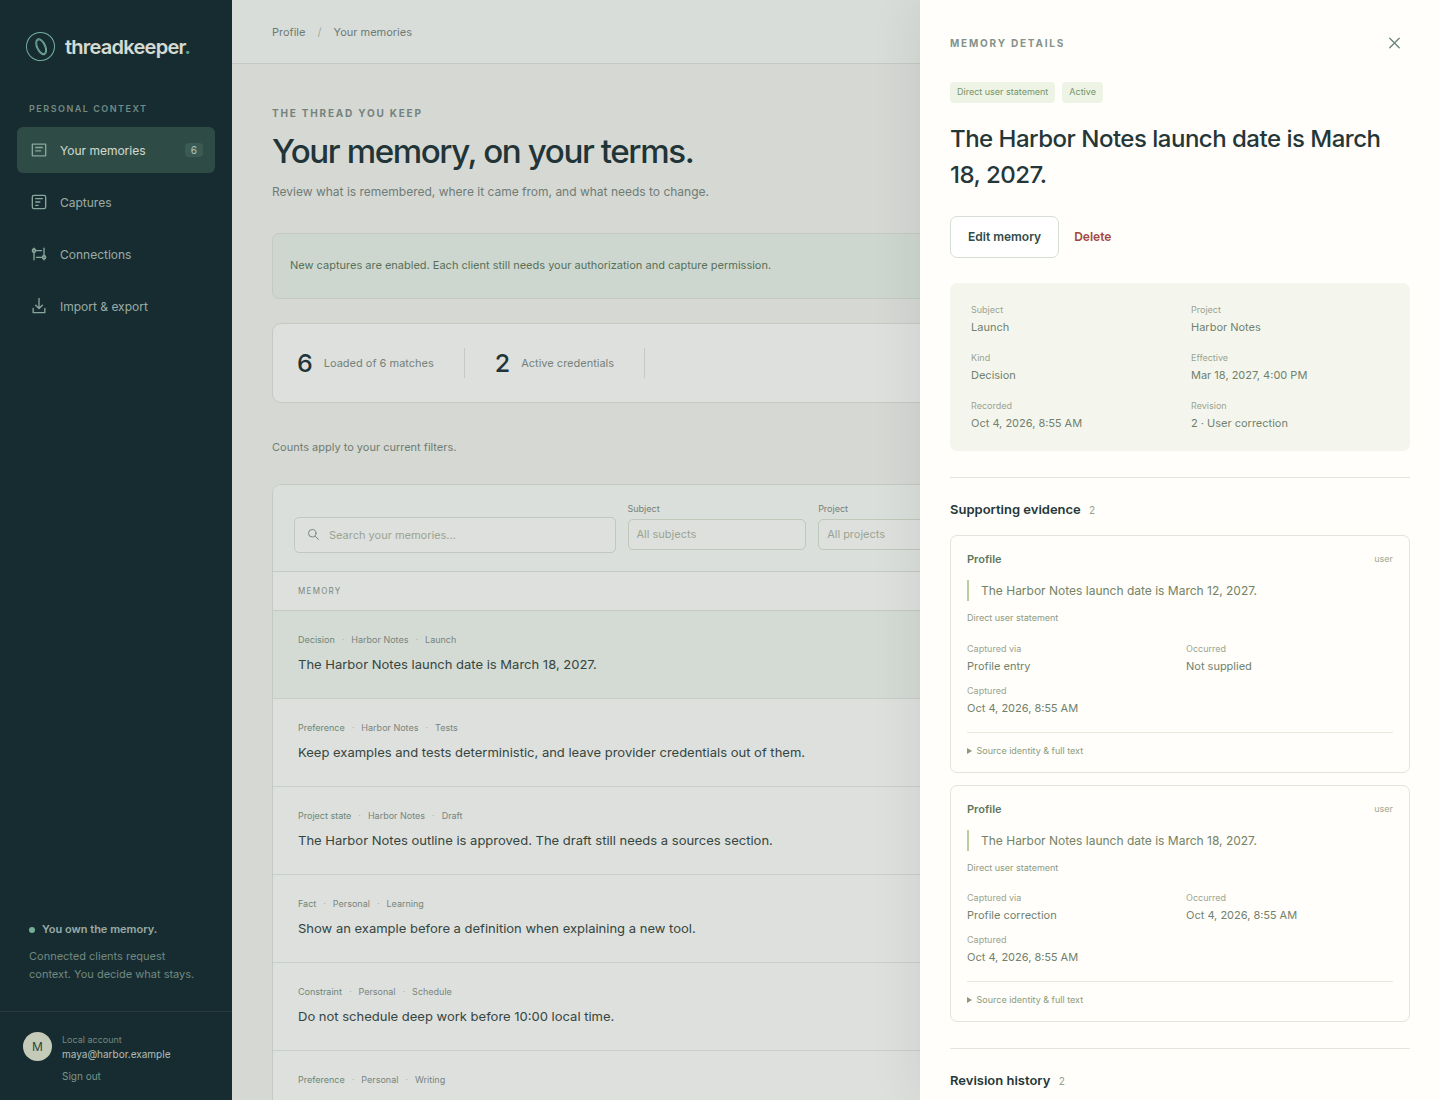
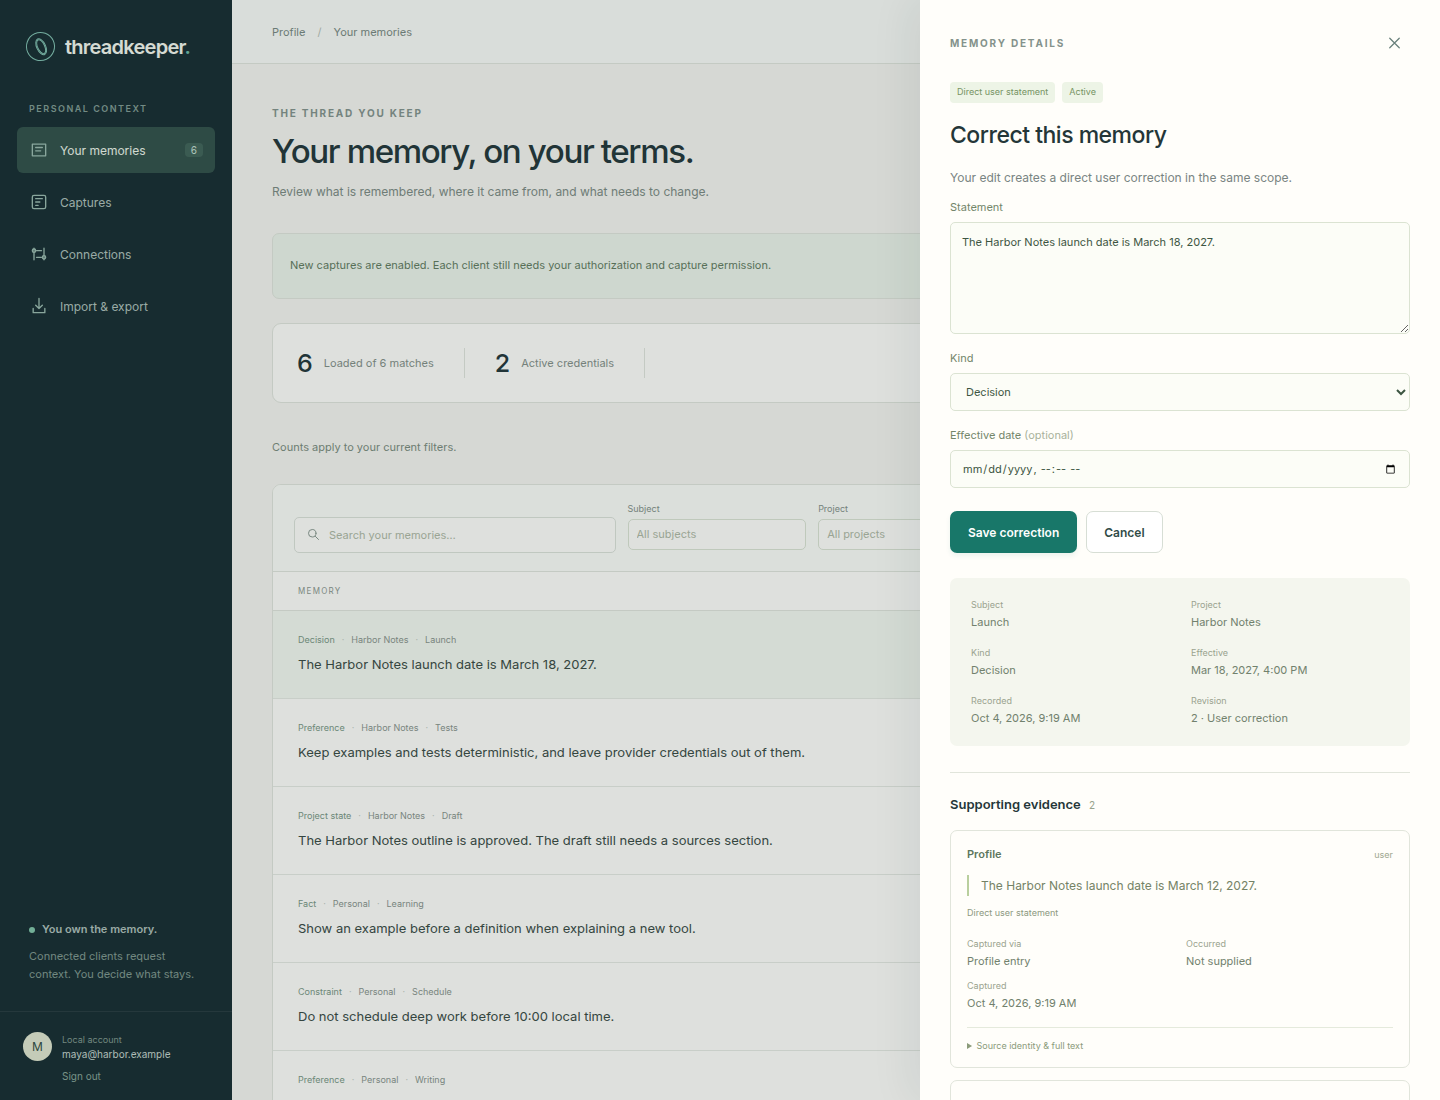
Retake the memory detail screenshot with the kind selector

diff --git a/README.md b/README.md
@@ -26,7 +26,7 @@ The profile works on a phone, too.
 
 Open any memory to see the exact words it came from and every change made to it. When you correct something, your correction takes effect immediately. There is no approval step. You can also change what kind of memory it is, for example turning a "fact" into a "preference." The original wording and kind are kept alongside your correction, so you can always see what changed and why.
 
-![A corrected launch date, shown with the original note and the correction](docs/images/memory-detail.png)
+![Correcting a launch date, with the kind selector and the original note kept as evidence](docs/images/memory-detail.png)
 
 ### Approve guesses before they count
 
